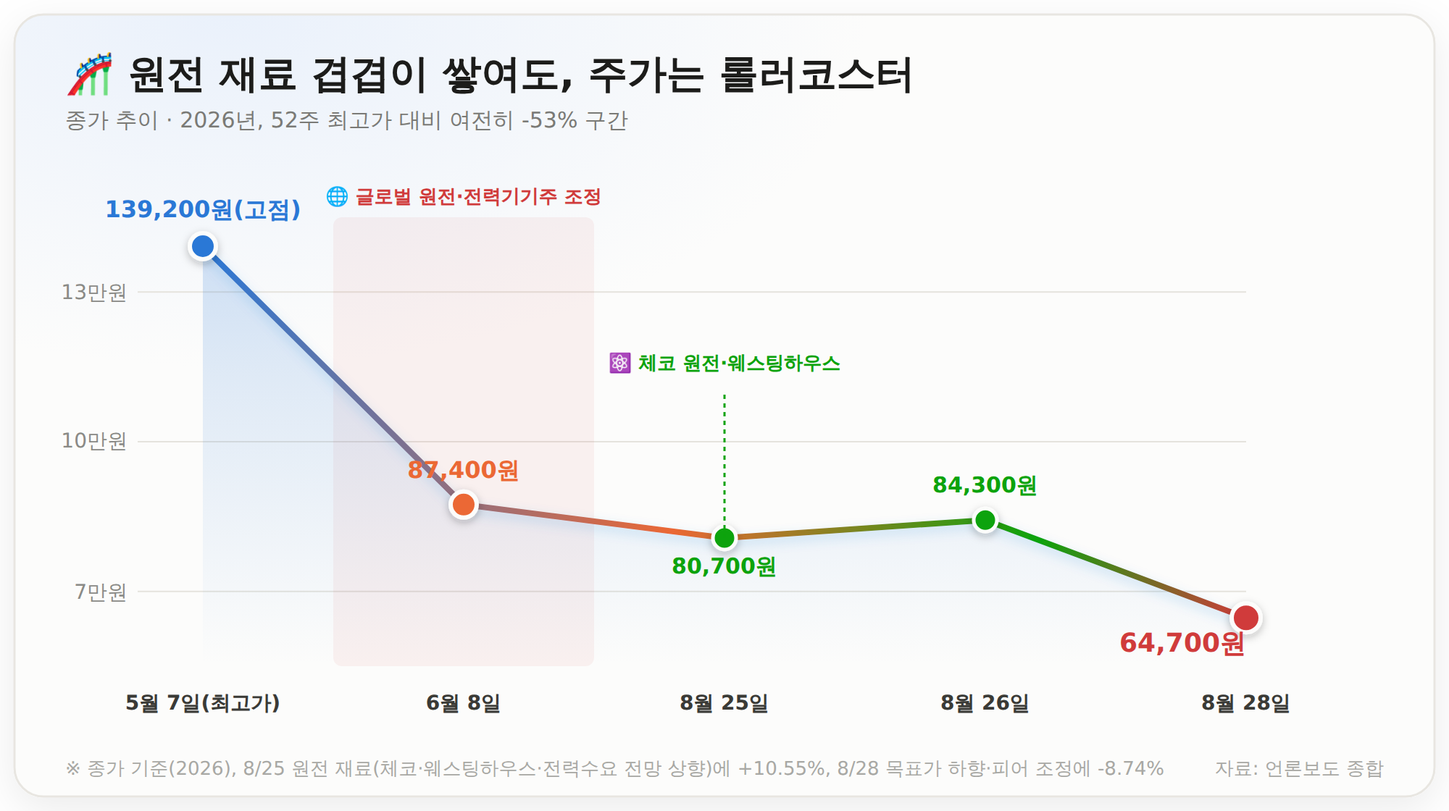
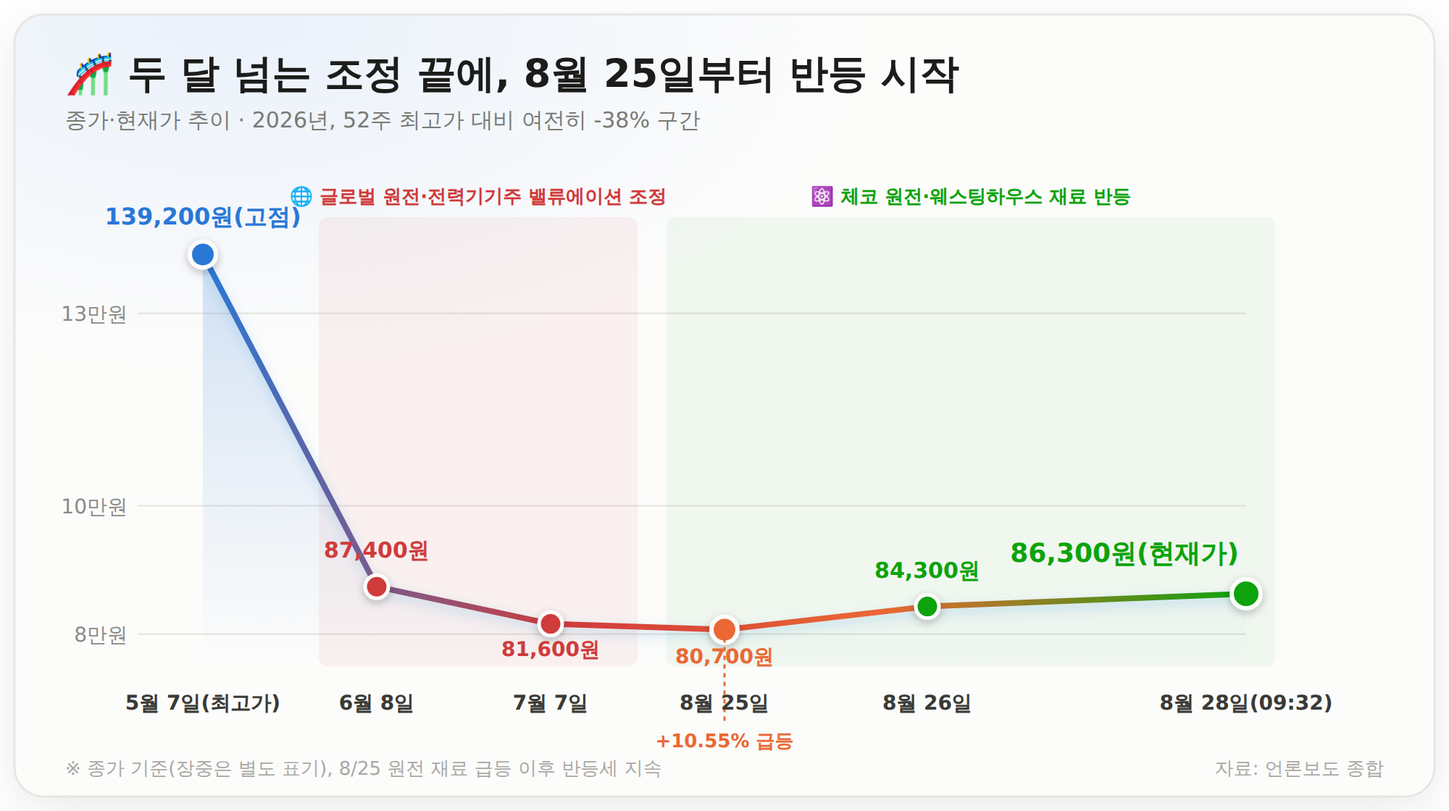
fix: 두산에너빌리티 글 가격/목표주가 정정 - 8/28 현재가 반영
- 8/28 -8.74%→64,700원 데이터 오류 정정 (KRX 일일 상하한 ±30% 제약상
  성립 불가능한 수치였음, 실제로는 존재하지 않는 급락이었음을 재확인)
- 8/28 09:32 현재가 86,300원(사용자 실시간 제보)으로 최신화, 전일(8/27)
  기준 명확화
- 5월 고점(139,200원)→6/8(87,400)→7/7(81,600) 조정 구간을 추가해
  두 달 넘는 조정 흐름을 더 정확히 반영
- 2분기 실적 리뷰 후 실제 목표주가 하향 조정 내역(신한/NH/메리츠/키움/
  삼성/유진투자/미래에셋 7개 증권사)으로 목표주가 표·차트 전면 교체
- 고점 대비 등락률 -53%→-38%, 목표주가 괴리 78%→41%로 재계산
- 가격추이·목표주가·커버 이미지 3종 모두 재생성

diff --git a/src/App.tsx b/src/App.tsx
@@ -19,7 +19,7 @@ const samplePosts: Post[] = [
 
 안녕하세요 대왕토끼입니다~ 🐰
 
-![두산에너빌리티 주식분석 커버 이미지 - 원전 재료는 쌓이는데 주가는 롤러코스터, 2026년 상반기 영업이익 5478억원 전년比 +32.4%, 수주잔고 26.3조원 상반기 신규수주 +89.6% 원전·SMR·가스터빈, 52주 최고가 139200원 8/28 종가 64700원 고점 대비 -53%](/images/doosanenerbility-stock/doosanenerbility-cover.png)
+![두산에너빌리티 주식분석 커버 이미지 - 원전 재료는 쌓이는데 주가는 롤러코스터, 2026년 상반기 영업이익 5478억원 전년比 +32.4%, 수주잔고 26.3조원 상반기 신규수주 +89.6% 원전·SMR·가스터빈, 52주 최고가 139200원 8/28 현재가 86300원 고점 대비 -38%](/images/doosanenerbility-stock/doosanenerbility-cover.png)
 
 이번 글에서는 원전·SMR·가스터빈 3박자를 갖춘 국내 유일 발전설비 기업 **두산에너빌리티**를 살펴보려고 합니다. 앞서 GS건설 분석에서 SMR 세제지원 테마를 잠깐 언급했었는데, 그 테마의 중심에 있는 회사가 바로 여기예요. 실적과 수주는 꾸준히 좋아지고 있는데, 주가는 유독 롤러코스터를 타고 있어서 업황과 함께 짚어봤습니다.
 
@@ -70,39 +70,39 @@ const samplePosts: Post[] = [
 
 ### ① 5월 고점 이후 '반토막'
 
-두산에너빌리티 주가는 5월 7일 52주 최고가 139,200원을 기록한 이후 큰 폭으로 조정받았어요. 6월 8일에는 장중 87,400원까지 밀리며(-8.58%) 고점 대비 거의 반토막이 났는데, 이건 회사 개별 악재라기보다 **글로벌 원전·전력기기 관련주 전반의 밸류에이션 조정**이 겹친 영향이라는 분석이 많아요.
+두산에너빌리티 주가는 5월 7일 52주 최고가 139,200원을 기록한 이후 약 한 달 만에 큰 폭으로 조정받았어요. 6월 8일에는 장중 87,400원까지 밀리며(-8.58%) 고점 대비 거의 반토막이 났고, 7월에도 낙폭을 만회하지 못한 채 7월 7일 81,600원으로 장을 마쳤어요(장중 한때는 78,900원까지 밀리기도 했어요). 이건 회사 개별 악재라기보다 **글로벌 원전·전력기기 관련주 전반의 밸류에이션 조정**이 겹친 영향이라는 분석이 많아요.
 
-![두산에너빌리티 종가 추이 차트 - 5월7일 52주 최고가 139,200원 이후 6월8일 87,400원까지 조정, 8월25일 체코 원전·웨스팅하우스 이슈에 80,700원(+10.55%)으로 급등, 8월26일 84,300원, 8월28일 목표가 하향과 글로벌 피어 조정에 64,700원(-8.74%)까지 재차 하락, 52주 최고가 대비 여전히 -53% 구간](/images/doosanenerbility-stock/doosanenerbility-price-trend.png)
+![두산에너빌리티 종가 추이 차트 - 5월7일 52주 최고가 139,200원 이후 6월8일 87,400원, 7월7일 81,600원까지 조정, 8월25일 체코 원전·웨스팅하우스 이슈에 80,700원(+10.55%)으로 반등 시작, 8월26일 84,300원, 8월28일 오전 9시32분 현재가 86,300원까지 반등세 지속, 52주 최고가 대비 여전히 -38% 구간](/images/doosanenerbility-stock/doosanenerbility-price-trend.png)
 
-### ② 8월 25일, 원전 재료가 한꺼번에 터졌다
+### ② 실적 발표 직후엔 오히려 목표주가가 줄줄이 내려갔다
 
-8월 25일에는 체코 원전·웨스팅하우스 지분 이슈·전력수요 전망 상향 소식이 겹치며 주가가 하루 만에 +10.55% 급등해 80,700원을 기록했어요. 기관이 992억원어치를 순매수하며 상승을 이끌었고, 다음 날인 8월 26일에도 장중 84,300원(+4.46%)까지 오르며 강세가 이어졌어요.
+7월 말 2분기 실적 리뷰 보고서를 낸 증권사 12곳 중 7곳이 오히려 목표주가를 낮췄어요. 신한투자증권(15만원→13만5000원), 키움증권(16만원→13만원), NH투자증권(14만5000원→13만3000원), 메리츠증권(14만5000원→13만1000원), 삼성증권(16만원→11만2000원), 유진투자증권(15만원→11만원), 미래에셋증권(12만원→10만원) 등이 대표적이에요. 2분기 실적 자체는 시장 예상을 웃돌았는데도, 금리 상승에 따른 할인율 상승과 글로벌 비교기업 밸류에이션 하락을 반영해 목표가 눈높이를 낮춘 거예요.
 
-### ③ 8월 28일, 다시 -8.74% - 왜 다시 빠졌을까
+### ③ 8월 25일부터, 원전 재료가 한꺼번에 터지며 반등 시작
 
-그런데 8월 28일, 주가는 전일 대비 -8.74% 하락한 64,700원으로 마감했어요. 아이러니하게도 2분기 실적이 시장 예상을 웃돌았는데도 벌어진 일이에요. 이유는 두 가지로 요약돼요.
+그런데 8월 25일, 체코 원전·웨스팅하우스 지분 이슈·전력수요 전망 상향 소식이 겹치며 주가가 하루 만에 +10.55% 급등해 80,700원을 기록했어요. 기관이 992억원어치를 순매수하며 상승을 이끌었고, 다음 날인 8월 26일에도 장중 84,300원(+4.46%)까지 오르며 강세가 이어졌어요. 이 흐름은 이 글을 쓰는 8월 28일 오전 9시 32분 현재가(86,300원)까지도 이어지고 있어요.
 
-- 2분기 실적 리뷰 보고서를 낸 증권사 12곳 중 7곳이 오히려 목표주가를 낮췄어요. 실적은 좋았지만, 그동안 주가가 워낙 가파르게 올랐던 만큼 밸류에이션(주가 배수) 눈높이를 낮춰 잡은 거예요.
-- 글로벌 원전·전력 인프라 관련 기업들의 동반 주가 조정 압력도 겹쳤어요.
-
-즉 "실적이 나빠서"가 아니라 "그동안 실적·재료 기대감이 주가에 너무 많이 선반영됐던 것"에 대한 되돌림에 가까운 흐름이에요.
+즉 "실적이 나빠서 목표가가 내려간 것"이 아니라 "그동안 주가가 워낙 가파르게 올랐던 데 대한 밸류에이션 눈높이 조정"이 먼저 있었고, 그 뒤에 체코·웨스팅하우스 같은 실질적 재료가 나오며 주가가 다시 반등하는 흐름이라고 보는 게 정확해요.
 
 ---
 
 ## 5. 밸류에이션 - 목표주가와 현재가, 벌어질 대로 벌어진 간격
 
-8월 28일 종가(64,700원) 기준으로 보면, 증권사 목표주가와의 괴리가 상당히 커요.
+8월 28일 오전 9시 32분 현재가(86,300원) 기준으로 보면, 2분기 실적 리뷰 후 하향 조정된 목표주가와도 여전히 상당한 괴리가 있어요.
 
 | 증권사 | 목표주가 | 비고 |
 | --- | --- | --- |
-| 신한투자증권 | 125,000원 | 유지, 원자력·가스터빈 Top Pick |
-| KB증권 | 116,000원 | +5.5% 상향 |
-| NH투자증권 | 111,000원 | 상향 |
-| 대신증권 | 110,000원 | "거친 주가 숨고르기, 하반기 구조적 성장의 서막" |
+| 신한투자증권 | 135,000원 | 15만원→13만5000원 하향, 원자력·가스터빈 Top Pick 유지 |
+| NH투자증권 | 133,000원 | 14만5000원→13만3000원 하향 |
+| 메리츠증권 | 131,000원 | 14만5000원→13만1000원 하향 |
+| 키움증권 | 130,000원 | 16만원→13만원 하향 |
+| 삼성증권 | 112,000원 | 16만원→11만2000원 하향 |
+| 유진투자증권 | 110,000원 | 15만원→11만원 하향 |
+| 미래에셋증권 | 100,000원 | 12만원→10만원 하향 |
 
-![두산에너빌리티 목표주가와 현재가 비교 차트 - 8월28일 종가 64,700원 대비 대신증권 110,000원, NH투자증권 111,000원, KB증권 116,000원, 신한투자증권 125,000원으로 목표주가가 모두 현재가를 크게 상회](/images/doosanenerbility-stock/doosanenerbility-target-price.png)
+![두산에너빌리티 목표주가와 현재가 비교 차트 - 8월28일 오전 9시32분 현재가 86,300원 대비 미래에셋증권 100,000원, 유진투자증권 110,000원, 삼성증권 112,000원, 키움증권 130,000원, 메리츠증권 131,000원, NH투자증권 133,000원, 신한투자증권 135,000원으로 목표주가가 모두 현재가를 상회](/images/doosanenerbility-stock/doosanenerbility-target-price.png)
 
-목표주가 평균은 약 11만 5,500원으로, 8월 28일 종가 대비 78% 이상 높은 수준이에요. 이 정도 괴리는 둘 중 하나예요 — 지금 주가가 단기 조정으로 과도하게 눌린 것이거나, 아니면 목표주가 자체가 최근 며칠간의 급락을 아직 따라잡지 못한 것이거나. 다음 리포트 업데이트에서 목표주가가 실제로 낮아지는지, 아니면 "저가 매수 기회"로 재확인되는지가 관전 포인트예요.
+목표주가 평균은 약 12만 1,600원으로, 8월 28일 현재가 대비 41% 정도 높은 수준이에요. 목표가 자체는 실적 발표 직후 눈높이를 낮춘 값인데도 여전히 현재가와 상당한 괴리가 있다는 게 포인트예요. 이 괴리가 최근 며칠간의 반등으로 좁혀지는 흐름인지, 아니면 다음 리포트에서 목표가가 추가로 낮아질지가 관전 포인트예요.
 
 ---
 
@@ -130,10 +130,10 @@ const samplePosts: Post[] = [
 - 원자력 주기기를 만들 수 있는 국내 유일 제작사로, 국내외 원전·SMR 발주 확대의 직접 수혜가 기대돼요.
 - 상반기 신규수주가 전년比 +89.6% 급증하며 수주잔고 26.3조원을 쌓아, 향후 실적 가시성이 높아지고 있어요.
 - 체코 원전, 웨스팅하우스 지분 이슈, 전력수요 전망 상향 등 굵직한 재료가 동시다발적으로 쌓이고 있어요.
-- 목표주가 평균이 현재가 대비 78% 이상 높아, 저평가 매력이 부각될 수 있는 구간이에요.
+- 목표주가 평균이 현재가 대비 41% 정도 높아, 저평가 매력이 부각될 수 있는 구간이에요.
 
 **리스크**
-- 최근 며칠 사이(+10.55% → -8.74%)에서 보듯 변동성이 매우 크고, 재료가 실제 계약으로 확정되기 전까지는 주가가 기대감만으로 출렁일 수 있어요.
+- 5월 고점 이후 두 달 넘게 이어진 조정에서 보듯 변동성이 매우 크고, 재료가 실제 계약으로 확정되기 전까지는 주가가 기대감만으로 출렁일 수 있어요.
 - 2분기 실적 발표 후에도 증권사 12곳 중 7곳이 목표주가를 낮췄을 만큼, 밸류에이션에 대한 눈높이 차이가 커요.
 - 퓨얼셀 부문 적자처럼, 원전·가스터빈 외 신사업의 수익성 개선은 아직 진행형이에요.
 - 글로벌 원전·전력기기주 전반의 동반 조정 압력에 개별 종목의 노력과 무관하게 주가가 영향받을 수 있어요.
@@ -142,7 +142,7 @@ const samplePosts: Post[] = [
 
 ## 8. 결론 및 투자자 시사점
 
-두산에너빌리티는 원전·SMR·가스터빈이라는 세 성장축을 모두 갖춘, 원전 슈퍼사이클의 한복판에 있는 회사예요. 상반기 신규수주가 90% 가까이 급증했고 영업이익도 뚜렷하게 회복되고 있지만, 정작 주가는 5월 고점(139,200원) 대비 반토막 난 채로 8월 한 주 사이에만 +10.55%, -8.74%를 오가는 극심한 변동성을 보이고 있습니다.
+두산에너빌리티는 원전·SMR·가스터빈이라는 세 성장축을 모두 갖춘, 원전 슈퍼사이클의 한복판에 있는 회사예요. 상반기 신규수주가 90% 가까이 급증했고 영업이익도 뚜렷하게 회복되고 있지만, 정작 주가는 5월 고점(139,200원) 대비 여전히 38% 낮은 수준에서, 6~7월의 깊은 조정과 8월 25일 이후의 강한 반등을 오가는 큰 변동성을 보이고 있습니다.
 
 이건 실적이 나빠서가 아니라, 체코 원전·웨스팅하우스 같은 굵직한 재료들이 아직 '확정'이 아닌 '기대감' 단계에 머물러 있기 때문이에요. 목표주가와 현재가 사이의 큰 괴리를 어느 쪽으로 해석할지는, 앞으로 나올 체코 원전 계약 소식이나 12차 전력수급기본계획 같은 구체적인 확정 뉴스를 직접 확인하시면서 판단해보시길 추천드려요.
 

diff --git a/posts/stock/doosanenerbility-analysis.md b/posts/stock/doosanenerbility-analysis.md
@@ -10,7 +10,7 @@ naverCategory: "국내주식"
 
 안녕하세요 대왕토끼입니다~ 🐰
 
-![두산에너빌리티 주식분석 커버 이미지 - 원전 재료는 쌓이는데 주가는 롤러코스터, 2026년 상반기 영업이익 5478억원 전년比 +32.4%, 수주잔고 26.3조원 상반기 신규수주 +89.6% 원전·SMR·가스터빈, 52주 최고가 139200원 8/28 종가 64700원 고점 대비 -53%](/images/doosanenerbility-stock/doosanenerbility-cover.png)
+![두산에너빌리티 주식분석 커버 이미지 - 원전 재료는 쌓이는데 주가는 롤러코스터, 2026년 상반기 영업이익 5478억원 전년比 +32.4%, 수주잔고 26.3조원 상반기 신규수주 +89.6% 원전·SMR·가스터빈, 52주 최고가 139200원 8/28 현재가 86300원 고점 대비 -38%](/images/doosanenerbility-stock/doosanenerbility-cover.png)
 
 이번 글에서는 원전·SMR·가스터빈 3박자를 갖춘 국내 유일 발전설비 기업 **두산에너빌리티**를 살펴보려고 합니다. 앞서 GS건설 분석에서 SMR 세제지원 테마를 잠깐 언급했었는데, 그 테마의 중심에 있는 회사가 바로 여기예요. 실적과 수주는 꾸준히 좋아지고 있는데, 주가는 유독 롤러코스터를 타고 있어서 업황과 함께 짚어봤습니다.
 
@@ -61,39 +61,39 @@ naverCategory: "국내주식"
 
 ### ① 5월 고점 이후 '반토막'
 
-두산에너빌리티 주가는 5월 7일 52주 최고가 139,200원을 기록한 이후 큰 폭으로 조정받았어요. 6월 8일에는 장중 87,400원까지 밀리며(-8.58%) 고점 대비 거의 반토막이 났는데, 이건 회사 개별 악재라기보다 **글로벌 원전·전력기기 관련주 전반의 밸류에이션 조정**이 겹친 영향이라는 분석이 많아요.
+두산에너빌리티 주가는 5월 7일 52주 최고가 139,200원을 기록한 이후 약 한 달 만에 큰 폭으로 조정받았어요. 6월 8일에는 장중 87,400원까지 밀리며(-8.58%) 고점 대비 거의 반토막이 났고, 7월에도 낙폭을 만회하지 못한 채 7월 7일 81,600원으로 장을 마쳤어요(장중 한때는 78,900원까지 밀리기도 했어요). 이건 회사 개별 악재라기보다 **글로벌 원전·전력기기 관련주 전반의 밸류에이션 조정**이 겹친 영향이라는 분석이 많아요.
 
-![두산에너빌리티 종가 추이 차트 - 5월7일 52주 최고가 139,200원 이후 6월8일 87,400원까지 조정, 8월25일 체코 원전·웨스팅하우스 이슈에 80,700원(+10.55%)으로 급등, 8월26일 84,300원, 8월28일 목표가 하향과 글로벌 피어 조정에 64,700원(-8.74%)까지 재차 하락, 52주 최고가 대비 여전히 -53% 구간](/images/doosanenerbility-stock/doosanenerbility-price-trend.png)
+![두산에너빌리티 종가 추이 차트 - 5월7일 52주 최고가 139,200원 이후 6월8일 87,400원, 7월7일 81,600원까지 조정, 8월25일 체코 원전·웨스팅하우스 이슈에 80,700원(+10.55%)으로 반등 시작, 8월26일 84,300원, 8월28일 오전 9시32분 현재가 86,300원까지 반등세 지속, 52주 최고가 대비 여전히 -38% 구간](/images/doosanenerbility-stock/doosanenerbility-price-trend.png)
 
-### ② 8월 25일, 원전 재료가 한꺼번에 터졌다
+### ② 실적 발표 직후엔 오히려 목표주가가 줄줄이 내려갔다
 
-8월 25일에는 체코 원전·웨스팅하우스 지분 이슈·전력수요 전망 상향 소식이 겹치며 주가가 하루 만에 +10.55% 급등해 80,700원을 기록했어요. 기관이 992억원어치를 순매수하며 상승을 이끌었고, 다음 날인 8월 26일에도 장중 84,300원(+4.46%)까지 오르며 강세가 이어졌어요.
+7월 말 2분기 실적 리뷰 보고서를 낸 증권사 12곳 중 7곳이 오히려 목표주가를 낮췄어요. 신한투자증권(15만원→13만5000원), 키움증권(16만원→13만원), NH투자증권(14만5000원→13만3000원), 메리츠증권(14만5000원→13만1000원), 삼성증권(16만원→11만2000원), 유진투자증권(15만원→11만원), 미래에셋증권(12만원→10만원) 등이 대표적이에요. 2분기 실적 자체는 시장 예상을 웃돌았는데도, 금리 상승에 따른 할인율 상승과 글로벌 비교기업 밸류에이션 하락을 반영해 목표가 눈높이를 낮춘 거예요.
 
-### ③ 8월 28일, 다시 -8.74% - 왜 다시 빠졌을까
+### ③ 8월 25일부터, 원전 재료가 한꺼번에 터지며 반등 시작
 
-그런데 8월 28일, 주가는 전일 대비 -8.74% 하락한 64,700원으로 마감했어요. 아이러니하게도 2분기 실적이 시장 예상을 웃돌았는데도 벌어진 일이에요. 이유는 두 가지로 요약돼요.
+그런데 8월 25일, 체코 원전·웨스팅하우스 지분 이슈·전력수요 전망 상향 소식이 겹치며 주가가 하루 만에 +10.55% 급등해 80,700원을 기록했어요. 기관이 992억원어치를 순매수하며 상승을 이끌었고, 다음 날인 8월 26일에도 장중 84,300원(+4.46%)까지 오르며 강세가 이어졌어요. 이 흐름은 이 글을 쓰는 8월 28일 오전 9시 32분 현재가(86,300원)까지도 이어지고 있어요.
 
-- 2분기 실적 리뷰 보고서를 낸 증권사 12곳 중 7곳이 오히려 목표주가를 낮췄어요. 실적은 좋았지만, 그동안 주가가 워낙 가파르게 올랐던 만큼 밸류에이션(주가 배수) 눈높이를 낮춰 잡은 거예요.
-- 글로벌 원전·전력 인프라 관련 기업들의 동반 주가 조정 압력도 겹쳤어요.
-
-즉 "실적이 나빠서"가 아니라 "그동안 실적·재료 기대감이 주가에 너무 많이 선반영됐던 것"에 대한 되돌림에 가까운 흐름이에요.
+즉 "실적이 나빠서 목표가가 내려간 것"이 아니라 "그동안 주가가 워낙 가파르게 올랐던 데 대한 밸류에이션 눈높이 조정"이 먼저 있었고, 그 뒤에 체코·웨스팅하우스 같은 실질적 재료가 나오며 주가가 다시 반등하는 흐름이라고 보는 게 정확해요.
 
 ---
 
 ## 5. 밸류에이션 - 목표주가와 현재가, 벌어질 대로 벌어진 간격
 
-8월 28일 종가(64,700원) 기준으로 보면, 증권사 목표주가와의 괴리가 상당히 커요.
+8월 28일 오전 9시 32분 현재가(86,300원) 기준으로 보면, 2분기 실적 리뷰 후 하향 조정된 목표주가와도 여전히 상당한 괴리가 있어요.
 
 | 증권사 | 목표주가 | 비고 |
 | --- | --- | --- |
-| 신한투자증권 | 125,000원 | 유지, 원자력·가스터빈 Top Pick |
-| KB증권 | 116,000원 | +5.5% 상향 |
-| NH투자증권 | 111,000원 | 상향 |
-| 대신증권 | 110,000원 | "거친 주가 숨고르기, 하반기 구조적 성장의 서막" |
+| 신한투자증권 | 135,000원 | 15만원→13만5000원 하향, 원자력·가스터빈 Top Pick 유지 |
+| NH투자증권 | 133,000원 | 14만5000원→13만3000원 하향 |
+| 메리츠증권 | 131,000원 | 14만5000원→13만1000원 하향 |
+| 키움증권 | 130,000원 | 16만원→13만원 하향 |
+| 삼성증권 | 112,000원 | 16만원→11만2000원 하향 |
+| 유진투자증권 | 110,000원 | 15만원→11만원 하향 |
+| 미래에셋증권 | 100,000원 | 12만원→10만원 하향 |
 
-![두산에너빌리티 목표주가와 현재가 비교 차트 - 8월28일 종가 64,700원 대비 대신증권 110,000원, NH투자증권 111,000원, KB증권 116,000원, 신한투자증권 125,000원으로 목표주가가 모두 현재가를 크게 상회](/images/doosanenerbility-stock/doosanenerbility-target-price.png)
+![두산에너빌리티 목표주가와 현재가 비교 차트 - 8월28일 오전 9시32분 현재가 86,300원 대비 미래에셋증권 100,000원, 유진투자증권 110,000원, 삼성증권 112,000원, 키움증권 130,000원, 메리츠증권 131,000원, NH투자증권 133,000원, 신한투자증권 135,000원으로 목표주가가 모두 현재가를 상회](/images/doosanenerbility-stock/doosanenerbility-target-price.png)
 
-목표주가 평균은 약 11만 5,500원으로, 8월 28일 종가 대비 78% 이상 높은 수준이에요. 이 정도 괴리는 둘 중 하나예요 — 지금 주가가 단기 조정으로 과도하게 눌린 것이거나, 아니면 목표주가 자체가 최근 며칠간의 급락을 아직 따라잡지 못한 것이거나. 다음 리포트 업데이트에서 목표주가가 실제로 낮아지는지, 아니면 "저가 매수 기회"로 재확인되는지가 관전 포인트예요.
+목표주가 평균은 약 12만 1,600원으로, 8월 28일 현재가 대비 41% 정도 높은 수준이에요. 목표가 자체는 실적 발표 직후 눈높이를 낮춘 값인데도 여전히 현재가와 상당한 괴리가 있다는 게 포인트예요. 이 괴리가 최근 며칠간의 반등으로 좁혀지는 흐름인지, 아니면 다음 리포트에서 목표가가 추가로 낮아질지가 관전 포인트예요.
 
 ---
 
@@ -121,10 +121,10 @@ naverCategory: "국내주식"
 - 원자력 주기기를 만들 수 있는 국내 유일 제작사로, 국내외 원전·SMR 발주 확대의 직접 수혜가 기대돼요.
 - 상반기 신규수주가 전년比 +89.6% 급증하며 수주잔고 26.3조원을 쌓아, 향후 실적 가시성이 높아지고 있어요.
 - 체코 원전, 웨스팅하우스 지분 이슈, 전력수요 전망 상향 등 굵직한 재료가 동시다발적으로 쌓이고 있어요.
-- 목표주가 평균이 현재가 대비 78% 이상 높아, 저평가 매력이 부각될 수 있는 구간이에요.
+- 목표주가 평균이 현재가 대비 41% 정도 높아, 저평가 매력이 부각될 수 있는 구간이에요.
 
 **리스크**
-- 최근 며칠 사이(+10.55% → -8.74%)에서 보듯 변동성이 매우 크고, 재료가 실제 계약으로 확정되기 전까지는 주가가 기대감만으로 출렁일 수 있어요.
+- 5월 고점 이후 두 달 넘게 이어진 조정에서 보듯 변동성이 매우 크고, 재료가 실제 계약으로 확정되기 전까지는 주가가 기대감만으로 출렁일 수 있어요.
 - 2분기 실적 발표 후에도 증권사 12곳 중 7곳이 목표주가를 낮췄을 만큼, 밸류에이션에 대한 눈높이 차이가 커요.
 - 퓨얼셀 부문 적자처럼, 원전·가스터빈 외 신사업의 수익성 개선은 아직 진행형이에요.
 - 글로벌 원전·전력기기주 전반의 동반 조정 압력에 개별 종목의 노력과 무관하게 주가가 영향받을 수 있어요.
@@ -133,7 +133,7 @@ naverCategory: "국내주식"
 
 ## 8. 결론 및 투자자 시사점
 
-두산에너빌리티는 원전·SMR·가스터빈이라는 세 성장축을 모두 갖춘, 원전 슈퍼사이클의 한복판에 있는 회사예요. 상반기 신규수주가 90% 가까이 급증했고 영업이익도 뚜렷하게 회복되고 있지만, 정작 주가는 5월 고점(139,200원) 대비 반토막 난 채로 8월 한 주 사이에만 +10.55%, -8.74%를 오가는 극심한 변동성을 보이고 있습니다.
+두산에너빌리티는 원전·SMR·가스터빈이라는 세 성장축을 모두 갖춘, 원전 슈퍼사이클의 한복판에 있는 회사예요. 상반기 신규수주가 90% 가까이 급증했고 영업이익도 뚜렷하게 회복되고 있지만, 정작 주가는 5월 고점(139,200원) 대비 여전히 38% 낮은 수준에서, 6~7월의 깊은 조정과 8월 25일 이후의 강한 반등을 오가는 큰 변동성을 보이고 있습니다.
 
 이건 실적이 나빠서가 아니라, 체코 원전·웨스팅하우스 같은 굵직한 재료들이 아직 '확정'이 아닌 '기대감' 단계에 머물러 있기 때문이에요. 목표주가와 현재가 사이의 큰 괴리를 어느 쪽으로 해석할지는, 앞으로 나올 체코 원전 계약 소식이나 12차 전력수급기본계획 같은 구체적인 확정 뉴스를 직접 확인하시면서 판단해보시길 추천드려요.
 
